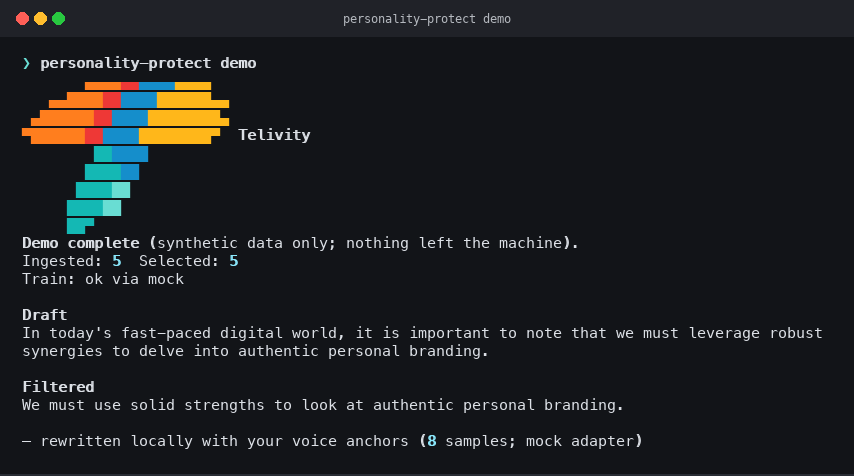
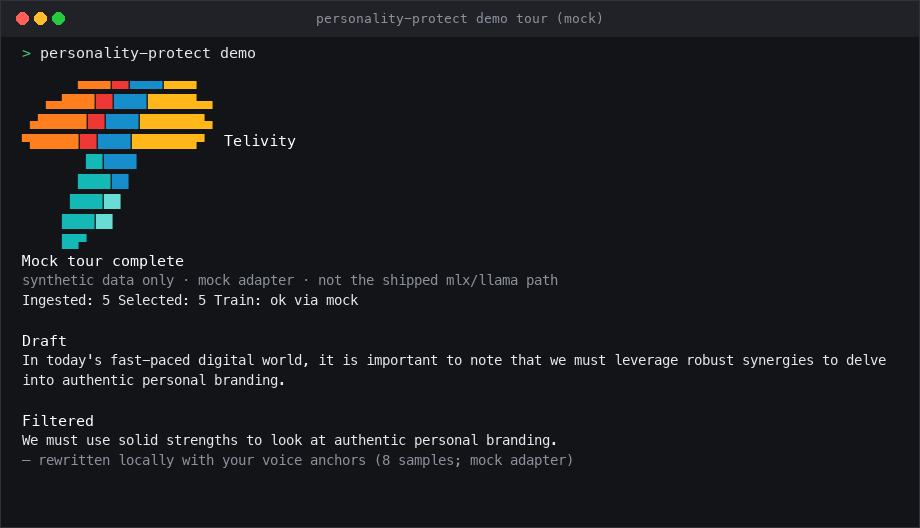
Clarify demo is a mock tour; lead with the shipped train/filter path.

diff --git a/README.md b/README.md
@@ -6,15 +6,24 @@ v1 CLI — shipped and working. Train a small LoRA on *your* writing. Filter AI 
 
 Built by [Telivity](https://telivity.com). Apache-2.0. The on-device pipe is real: ingest → select → chunked train → filter → compare. Voice fidelity (leave-alone + cadence) is what we're sharpening next — not “does the product work?”
 
-<p align="center">
-  <img src="docs/images/cli-demo.png" alt="personality-protect demo: synthetic AI slop draft rewritten locally" width="760" />
-</p>
+---
+
+## `demo` vs the shipped product
+
+| | What it is | What it is **not** |
+| --- | --- | --- |
+| **`personality-protect demo`** | Optional **synthetic mock tour** — ingest fake docs → mock train → mock filter. No model download. | Not the product. Not a real LoRA. Ending on “Mock tour complete” does **not** mean PersonalityProtect is only a demo. |
+| **Shipped path** | `init` → `download` → `ingest` → `select` → **`train` (mlx/cuda)** → **`filter` / `compare` (llama/mlx)** | Not `demo`. Real quantized weights + your adapter on disk. |
 
 ```text
-your writing ──► ingest ──► select ──► train (local LoRA) ──► filter ──► your voice
-                      ▲                        │
-                      └── demo (synthetic) ─────┘
+your writing ──► ingest ──► select ──► train (local LoRA) ──► filter / compare ──► your voice
+                                         ▲
+                    demo (optional mock tour; synthetic only)
 ```
+
+<p align="center">
+  <img src="docs/images/cli-shipped.png" alt="personality-protect shipped path: train --backend mlx --proof then filter with llama" width="760" />
+</p>
 
 ---
 
@@ -32,23 +41,29 @@ Honest about the hard part: the pipeline ships; sounding *exactly* like you is t
 
 ## Screenshots
 
-Synthetic demo only — safe for public docs. No personal corpus.
+Public docs use **synthetic Contoso / synergy-slop text only**. No personal corpus.
 
-| Demo (before → after) | Filter a draft | Telivity mark |
+| Shipped path | Compare (synthetic) | Filter (docs tour) |
 | --- | --- | --- |
-| <img src="docs/images/cli-demo.png" alt="demo before/after" width="360" /> | <img src="docs/images/cli-filter.png" alt="filter command" width="360" /> | <img src="docs/images/cli-logo.png" alt="Telivity CLI logo" width="280" /> |
+| <img src="docs/images/cli-shipped.png" alt="train --proof then filter" width="360" /> | <img src="docs/images/cli-compare.png" alt="compare synthetic draft" width="360" /> | <img src="docs/images/cli-filter.png" alt="filter command — mock adapter in docs shot" width="360" /> |
+
+Filter / compare PNGs above are **docs-tour shots** (`backend=mock` + synthetic draft) so screenshots stay private and light. After a real `train`, the same commands use **`llama` or `mlx`**.
+
+Optional mock tour (window title says *demo tour*, not the product name):
+
+| Mock tour only | Telivity mark | Status (synthetic profile) |
+| --- | --- | --- |
+| <img src="docs/images/cli-demo.png" alt="optional mock demo tour" width="360" /> | <img src="docs/images/cli-logo.png" alt="Telivity CLI logo" width="280" /> | <img src="docs/images/cli-status.png" alt="status on synthetic demo profile" width="280" /> |
 
 ```bash
-personality-protect demo          # synthetic ingest → mock train → filter
-personality-protect logo          # Telivity terminal mark
+# Shipped path (real adapters)
+personality-protect train --backend mlx --proof
 personality-protect filter --text "In today's fast-paced world…"
+personality-protect compare --synthetic slop_branding
+
+# Optional mock tour only (no download)
+personality-protect demo
 ```
-
-Local profile state after a real run:
-
-<p align="center">
-  <img src="docs/images/cli-status.png" alt="personality-protect status on a local demo profile" width="480" />
-</p>
 
 ---
 
@@ -124,16 +139,7 @@ pip install -e ".[cuda]"     # NVIDIA QLoRA train
 
 ## Quick start
 
-### 1. Synthetic demo (no download)
-
-```bash
-personality-protect demo
-personality-protect demo --json    # machine-readable; no logo
-```
-
-Runs: init → ingest synthetic docs → select → mock train → filter.
-
-### 2. Real local path
+### 1. Shipped local path (real train + filter)
 
 ```bash
 personality-protect init
@@ -158,6 +164,15 @@ personality-protect compare --synthetic slop_branding
 ```
 
 Filter auto-prefers local GGUF when present (`llama`), then MLX, then requires an explicit mock.
+
+### 2. Optional mock tour (no download)
+
+```bash
+personality-protect demo
+personality-protect demo --json    # machine-readable; no logo
+```
+
+Runs: init → ingest synthetic docs → select → **mock** train → **mock** filter. Useful for a smoke walkthrough. **This is not the shipped mlx/llama path.**
 
 ---
 
@@ -240,7 +255,7 @@ If a run dies mid-train, **`--resume` continues from the last good chunk** inste
 personality-protect filter --text "In today's fast-paced world we must leverage synergies."
 personality-protect filter --backend llama --text "Contoso must ship the Q3 plan by Friday."
 personality-protect filter --file draft.txt --out voice.txt
-personality-protect filter --backend mock --text "…"   # after mock train / demo
+personality-protect filter --backend mock --text "…"   # after mock train / demo tour
 ```
 
 On Apple Silicon with an MLX adapter, `filter --backend auto` prefers MLX.
@@ -283,7 +298,7 @@ Global flags (most commands): `--profile`, `--home`, `--json`, plus branding `--
 | `filter` | Rewrite a draft through the adapter |
 | `compare` | Raw vs few-shot vs adapter |
 | `eval` | Score a draft (synthetic or yours) |
-| `demo` | Full synthetic pipeline smoke |
+| `demo` | Optional synthetic **mock tour** (not the shipped path) |
 | `status` | Show profile / artifact state |
 | `api` | Loopback HTTP filter stub |
 | `logo` | Print Telivity CLI mark |

diff --git a/docs/LAUNCH.md b/docs/LAUNCH.md
@@ -37,10 +37,13 @@ MLX train is chunked and checkpointed — a crash does not wipe a full run; use 
 ## One-shot script
 
 ```bash
+# Full local run (real train when backend allows):
 ./scripts/beast_demo.sh --linkedin ~/path/to/linkedin-export
-# or synthetic smoke (no personal data):
+# Synthetic smoke only (mock — not the shipped mlx/llama path):
 ./scripts/beast_demo.sh --smoke --allow-mock --backend mock --skip-download
 ```
+
+`scripts/beast_demo.sh` is an operator helper for PersonalityProtect. It is not a separate “PersonalityProtect demo” product.
 
 ## Branch protection checks
 
